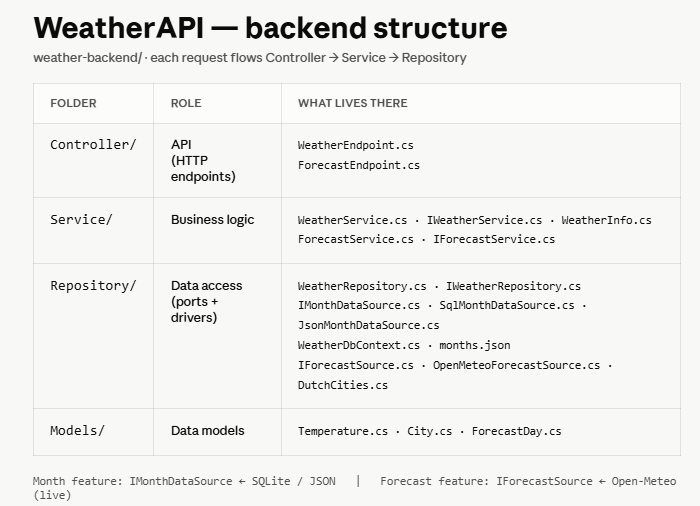
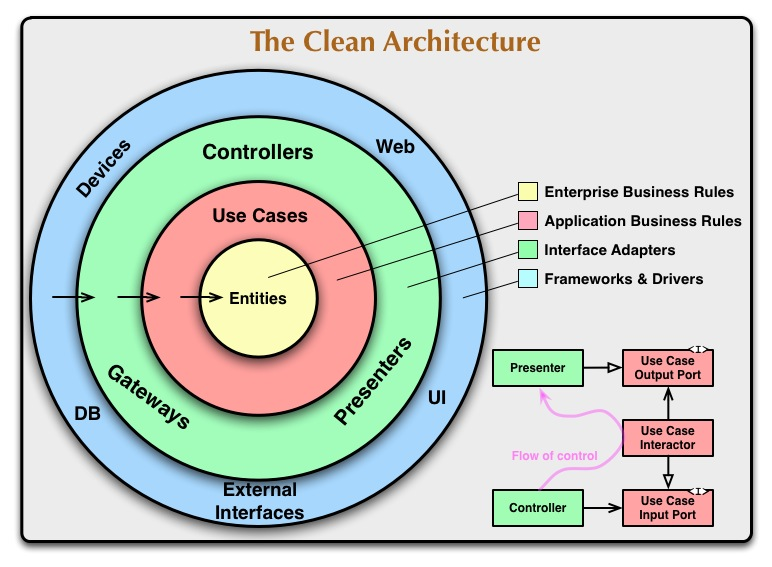
Add concept diagrams and rename the structure diagram
The README now opens with the two patterns the project is built on:
Clean Architecture (the backend's inward-pointing layers) and NgRx's one-directional data flow (the frontend).
Each diagram gets a caption tying it to the code,
and the Clean Architecture one is framed as the model we simplified from, not a literal map of the three layers.

diff --git a/README.md b/README.md
@@ -22,6 +22,31 @@ GET /api/weather/forecast?city=Amsterdam
 ->  [ { "date": "2026-07-03", "minTemp": 13, "maxTemp": 21, "condition": "Cloudy" }, ... ]
 ```
 
+## The ideas behind it
+
+Two patterns shape this project.
+
+**Clean Architecture** - dependencies point inward: outer concerns (web,
+database) depend on inner ones (business rules), never the reverse. The backend
+uses a simplified, three-layer take on it (Controller → Service → Repository),
+but the guiding idea is the classic model:
+
+![Clean Architecture: concentric rings - Entities, Use Cases, Interface
+Adapters, Frameworks & Drivers - with dependencies pointing
+inward](docs/clean_architecture.png)
+
+*Source: Robert C. Martin, "The Clean Architecture"
+(blog.cleancoder.com/uncle-bob/2012/08/13/the-clean-architecture.html)*
+
+**One-directional data flow (NgRx)** - the frontend never mutates shared state
+directly. A component dispatches an action, an effect does any async work, a
+reducer produces the new state, and selectors feed it back to the components:
+one loop, one direction.
+
+![NgRx lifecycle: component dispatches an action, the reducer updates the store,
+selectors feed the store back to the component; effects handle async work by
+calling a service and dispatching a new action](docs/ngrx_lifecycle.png)
+
 ## Repository layout
 
 This repo holds two apps side by side:
@@ -71,7 +96,7 @@ IForecastService.cs; Repository/ (data access): WeatherRepository.cs,
 IWeatherRepository.cs, IMonthDataSource.cs, WeatherDbContext.cs,
 SqlMonthDataSource.cs, JsonMonthDataSource.cs, months.json, IForecastSource.cs,
 OpenMeteoForecastSource.cs, DutchCities.cs; Models/ (data models):
-Temperature.cs, City.cs, ForecastDay.cs](docs/clean_architecture.png)
+Temperature.cs, City.cs, ForecastDay.cs](docs/backend_structure.png)
 
 Both features use the same shape: the controller calls a service, the service
 calls something behind an interface (a "port"), and a concrete driver fills that